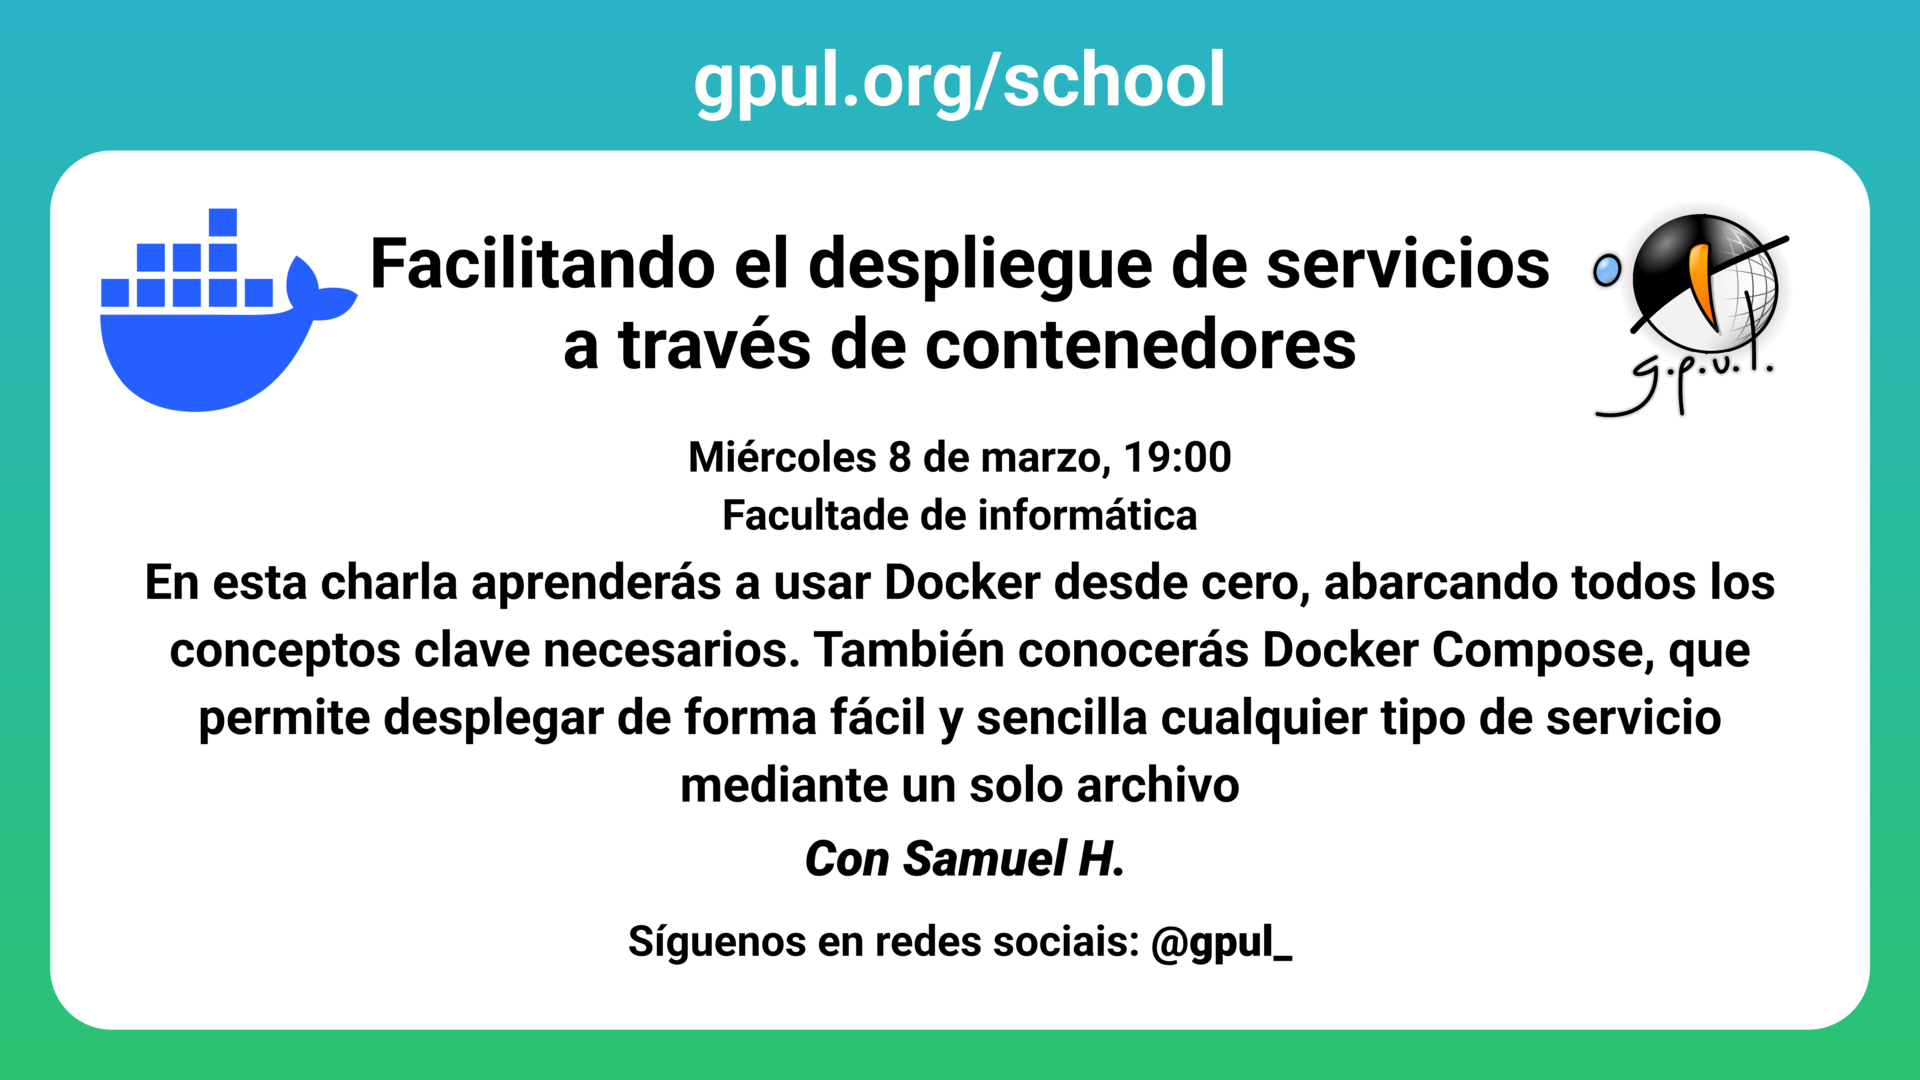
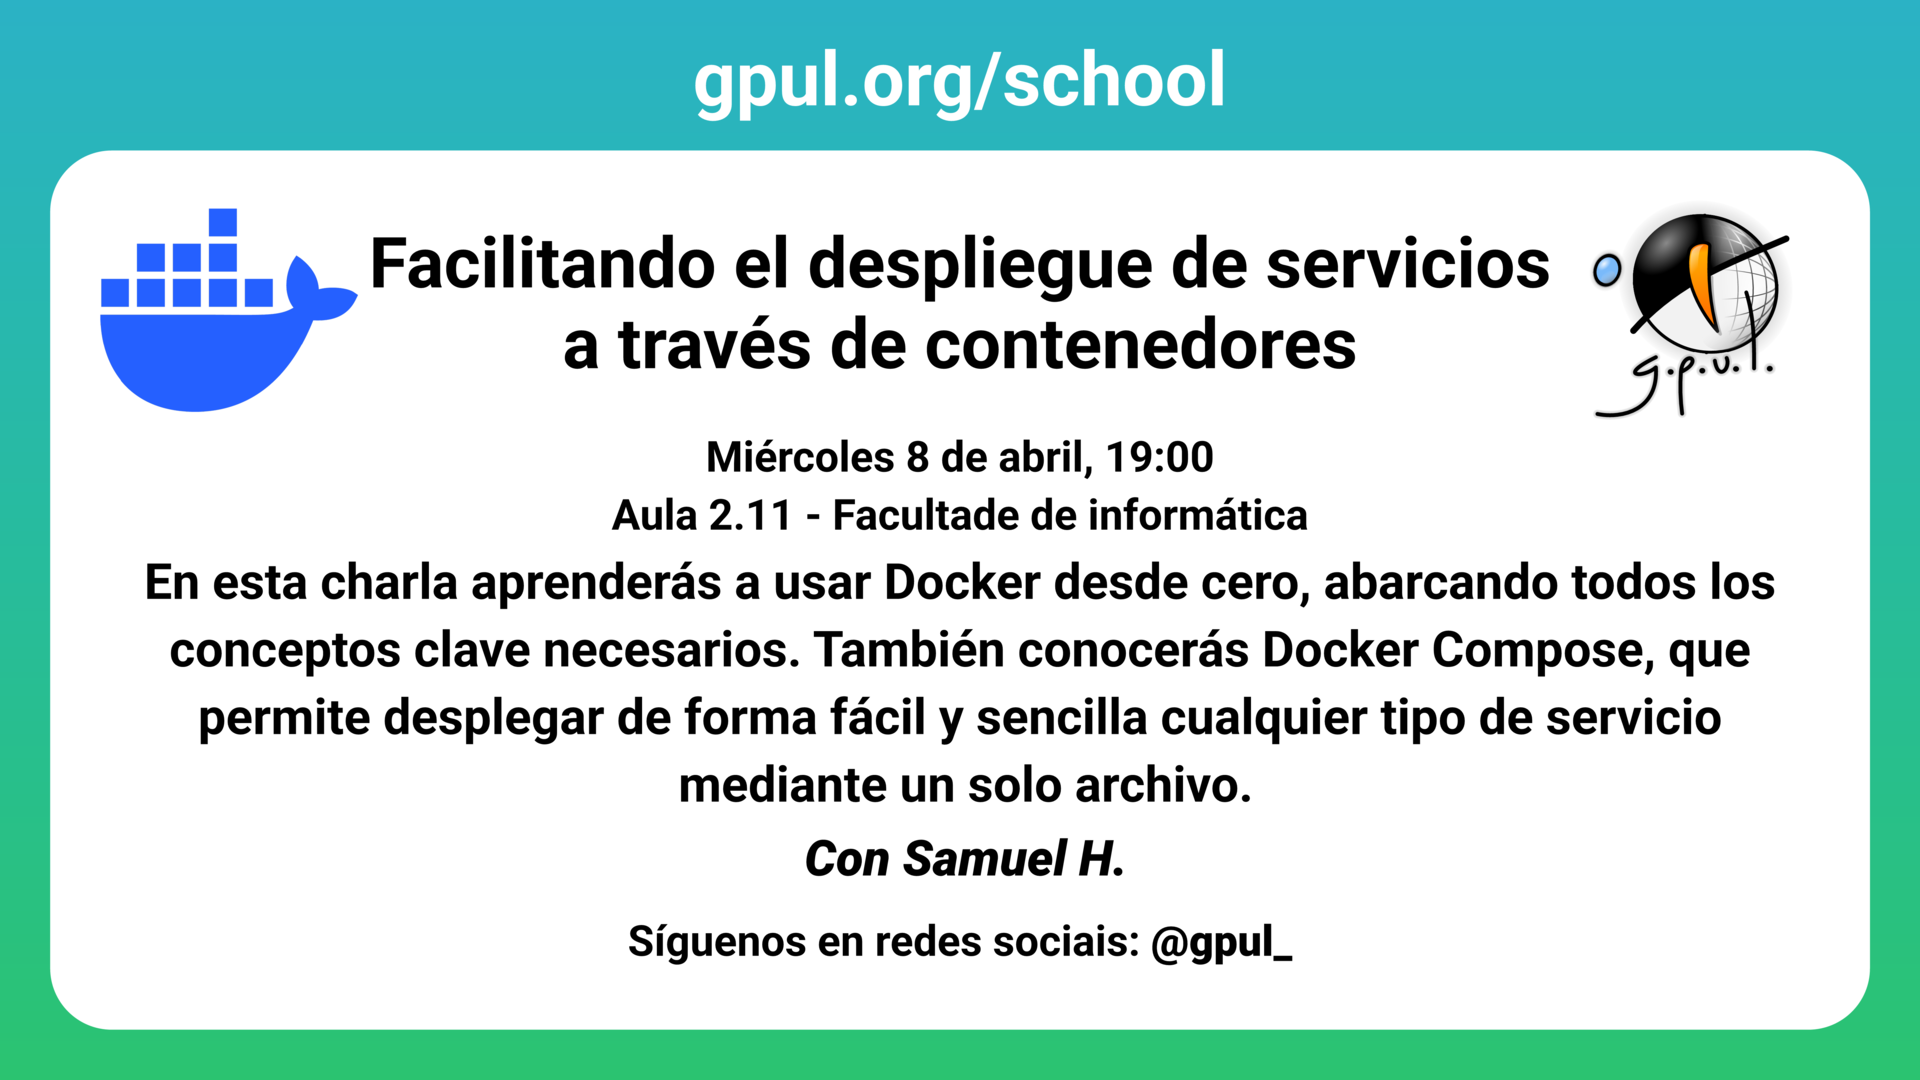
Actualizar charla de docker

Changed region(s): [[0.3125, 0.3972, 0.6875, 0.4889], [0.3438, 0.7028, 0.6562, 0.7639]]

diff --git a/src/content/eventos/2026/docker.md b/src/content/eventos/2026/docker.md
@@ -2,7 +2,7 @@
 title: "Facilitando el despliegue de servicios a través de contenedores"
 excerpt: "En esta charla aprenderás a usar Docker desde cero, abarcando todos los conceptos clave necesarios. También conocerás Docker Compose, que permite desplegar de forma fácil y sencilla cualquier tipo de servicio mediante un solo archivo."
 date: 2026-04-08T19:00:00
-location: Facultade de Informática
+location: Aula 2.11 - Facultade de Informática
 tags: ['School']
 status: upcoming
 authors: [sprinter05]
